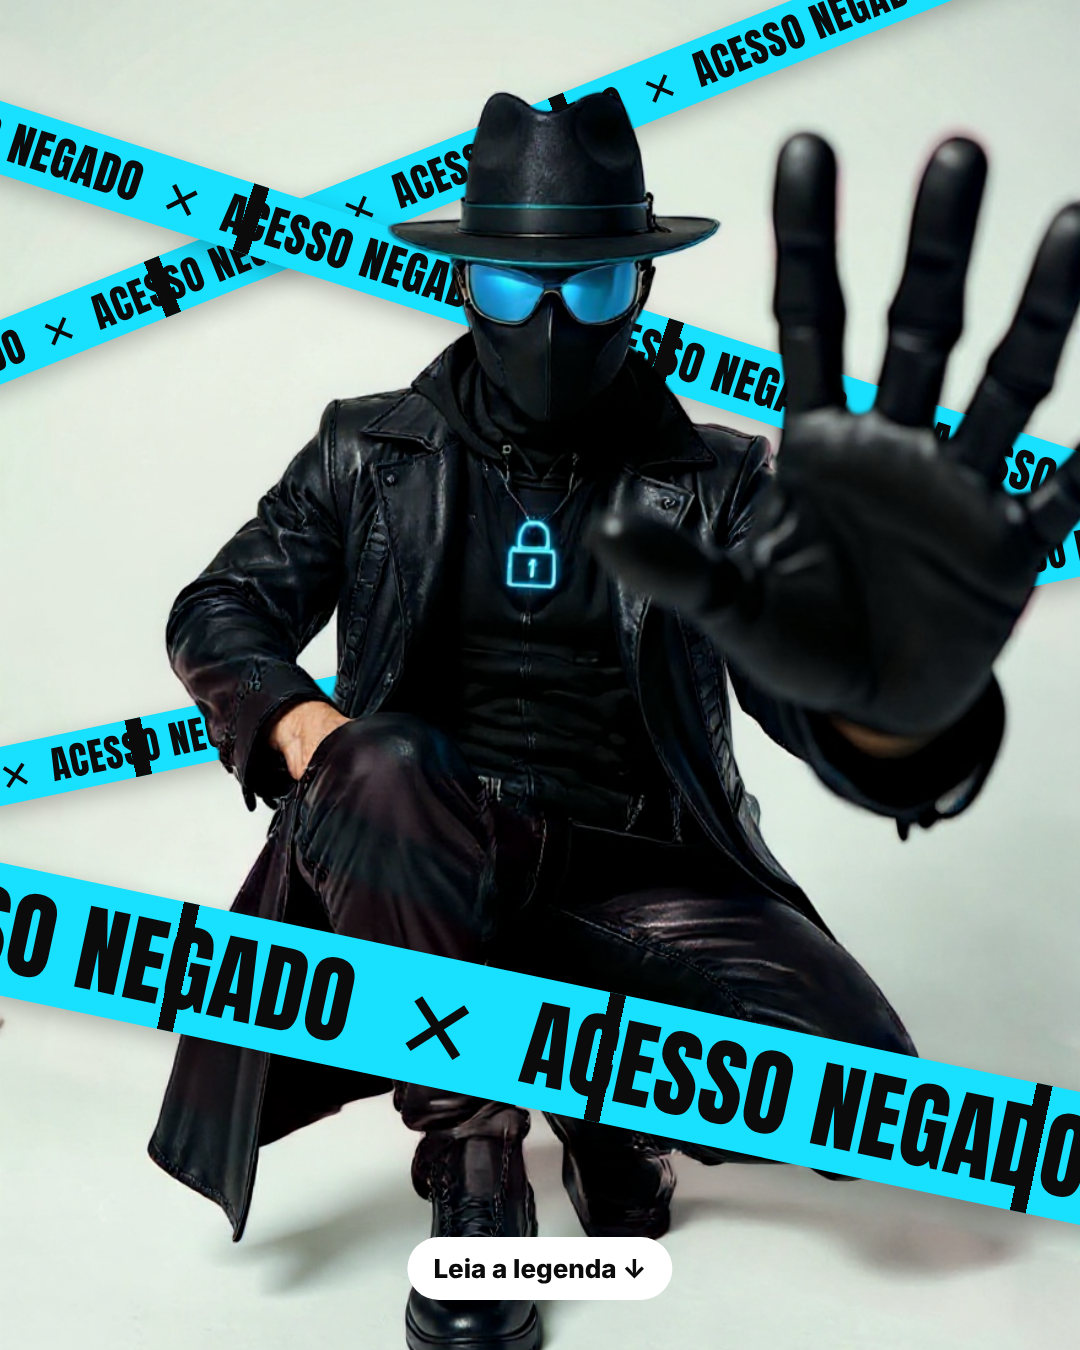
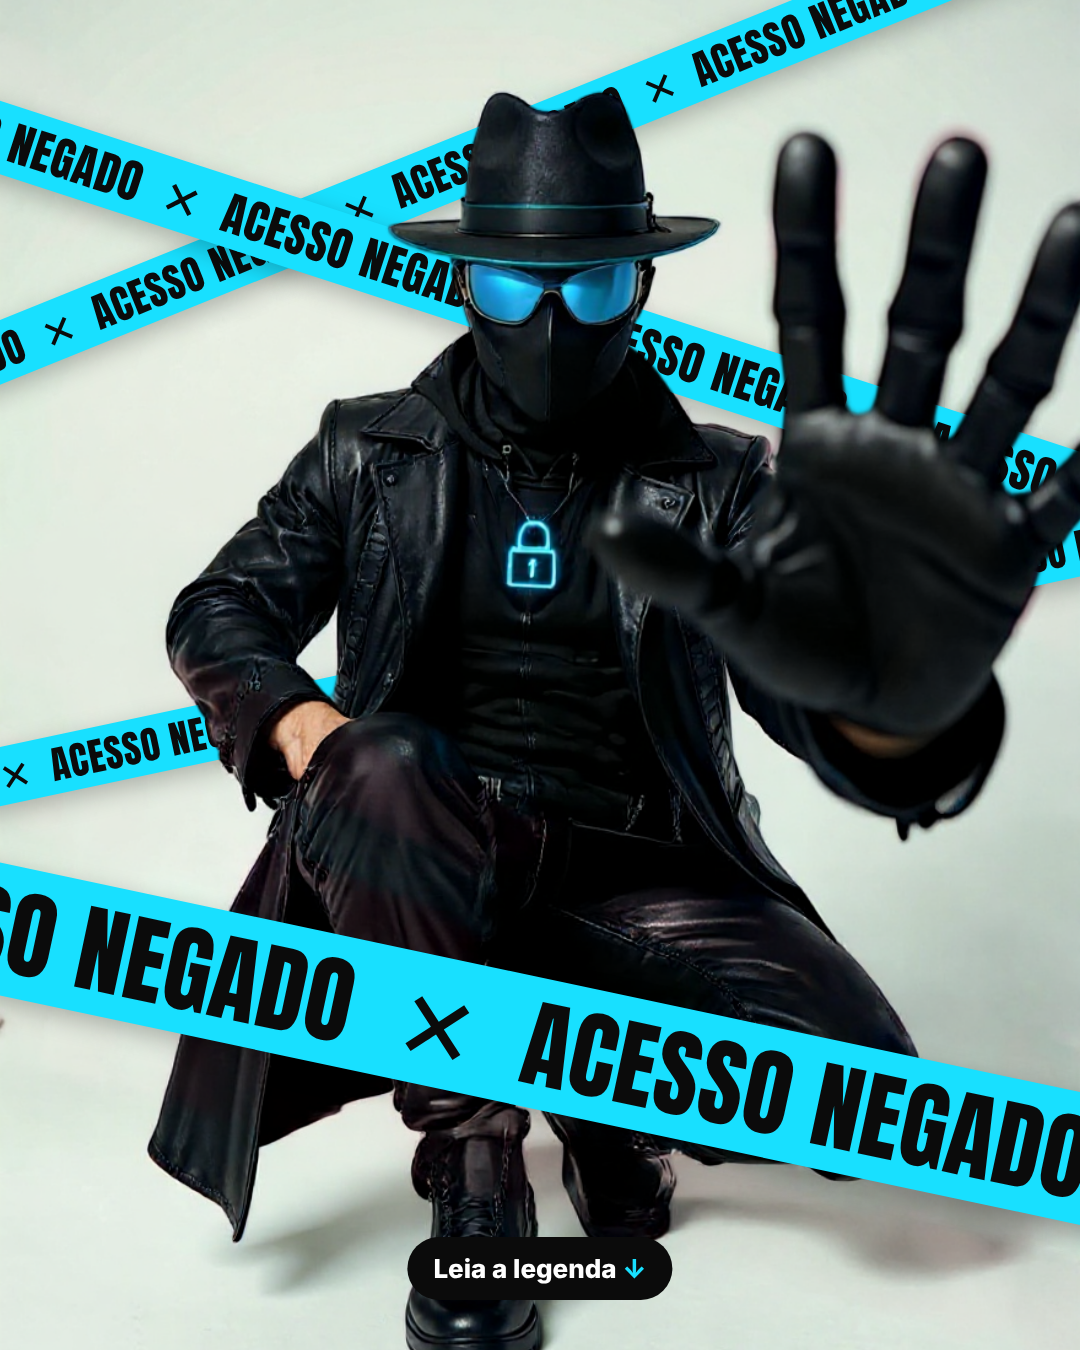
Feed estático: 24 e 25 aprovados, M da 28 afastado
Claude-Session: https://claude.ai/code/session_017mkQW4f9RfZB1iSbiGkvms

diff --git a/banco/tpl-estatico/layout-24.html b/banco/tpl-estatico/layout-24.html
@@ -3,9 +3,8 @@
 @font-face{font-family:I8;src:url(file:///home/user/producaodeconteudo/public/fonts/inter-latin-800-normal.woff2)}
 body{margin:0}#s{width:1080px;height:1350px;position:relative;overflow:hidden;background:#e9eae8}
 .bg{position:absolute;inset:0;width:100%;height:100%;object-fit:cover}
-.tp{position:absolute;width:1800px;background:#18e0ff;display:flex;align-items:center;overflow:hidden;white-space:nowrap;box-shadow:0 8px 24px rgba(0,0,0,.25);
- background-image:repeating-linear-gradient(90deg,transparent 0 420px,#0b0b0b 420px 436px)}
+.tp{position:absolute;width:1800px;background:#18e0ff;display:flex;align-items:center;overflow:hidden;white-space:nowrap;box-shadow:0 8px 24px rgba(0,0,0,.25)}
 .tp span{font-family:A;color:#0b0b0b;letter-spacing:1px;padding-left:30px}
-.cta{position:absolute;left:50%;transform:translateX(-50%);bottom:50px;font:800 26px I8;padding:16px 26px;border-radius:40px;white-space:nowrap;z-index:9;background:#fff;color:#0b0b0b}
-</style></head><body><div id=s><img class=bg src="c24d.png" style="z-index:0"><div class=tp style="top:80px;left:-300px;transform:rotate(-22deg);height:60px;z-index:1"><i></i><span style="font-size:40px">ACESSO NEGADO&nbsp;&nbsp;✕&nbsp;&nbsp;ACESSO NEGADO&nbsp;&nbsp;✕&nbsp;&nbsp;ACESSO NEGADO&nbsp;&nbsp;✕&nbsp;&nbsp;ACESSO NEGADO&nbsp;&nbsp;✕&nbsp;&nbsp;ACESSO NEGADO&nbsp;&nbsp;✕&nbsp;&nbsp;ACESSO NEGADO&nbsp;&nbsp;✕&nbsp;&nbsp;ACESSO NEGADO&nbsp;&nbsp;✕&nbsp;&nbsp;ACESSO NEGADO&nbsp;&nbsp;✕&nbsp;&nbsp;</span></div><div class=tp style="top:330px;left:-200px;transform:rotate(18deg);height:70px;z-index:1"><i></i><span style="font-size:46px">ACESSO NEGADO&nbsp;&nbsp;✕&nbsp;&nbsp;ACESSO NEGADO&nbsp;&nbsp;✕&nbsp;&nbsp;ACESSO NEGADO&nbsp;&nbsp;✕&nbsp;&nbsp;ACESSO NEGADO&nbsp;&nbsp;✕&nbsp;&nbsp;ACESSO NEGADO&nbsp;&nbsp;✕&nbsp;&nbsp;ACESSO NEGADO&nbsp;&nbsp;✕&nbsp;&nbsp;ACESSO NEGADO&nbsp;&nbsp;✕&nbsp;&nbsp;ACESSO NEGADO&nbsp;&nbsp;✕&nbsp;&nbsp;</span></div><div class=tp style="top:620px;left:-300px;transform:rotate(-12deg);height:58px;z-index:1"><i></i><span style="font-size:38px">ACESSO NEGADO&nbsp;&nbsp;✕&nbsp;&nbsp;ACESSO NEGADO&nbsp;&nbsp;✕&nbsp;&nbsp;ACESSO NEGADO&nbsp;&nbsp;✕&nbsp;&nbsp;ACESSO NEGADO&nbsp;&nbsp;✕&nbsp;&nbsp;ACESSO NEGADO&nbsp;&nbsp;✕&nbsp;&nbsp;ACESSO NEGADO&nbsp;&nbsp;✕&nbsp;&nbsp;ACESSO NEGADO&nbsp;&nbsp;✕&nbsp;&nbsp;ACESSO NEGADO&nbsp;&nbsp;✕&nbsp;&nbsp;</span></div><img class=bg src="c24d-cut.png" style="z-index:3"><div class=tp style="top:1000px;left:-260px;transform:rotate(12deg);height:130px;z-index:5"><i></i><span style="font-size:96px">ACESSO NEGADO&nbsp;&nbsp;✕&nbsp;&nbsp;ACESSO NEGADO&nbsp;&nbsp;✕&nbsp;&nbsp;ACESSO NEGADO&nbsp;&nbsp;✕&nbsp;&nbsp;ACESSO NEGADO&nbsp;&nbsp;✕&nbsp;&nbsp;ACESSO NEGADO&nbsp;&nbsp;✕&nbsp;&nbsp;ACESSO NEGADO&nbsp;&nbsp;✕&nbsp;&nbsp;ACESSO NEGADO&nbsp;&nbsp;✕&nbsp;&nbsp;ACESSO NEGADO&nbsp;&nbsp;✕&nbsp;&nbsp;</span></div>
-<div class=cta>Leia a legenda ↓</div></div></body></html>
+.cta{position:absolute;left:50%;transform:translateX(-50%);bottom:50px;font:800 26px I8;padding:16px 26px;border-radius:40px;white-space:nowrap;z-index:9;background:#0b0b0b;color:#fff}
+</style></head><body><div id=s><img class=bg src="c24d.png" style="z-index:0"><div class=tp style="top:80px;left:-300px;transform:rotate(-22deg);height:60px;z-index:1"><span style="font-size:40px">ACESSO NEGADO&nbsp;&nbsp;✕&nbsp;&nbsp;ACESSO NEGADO&nbsp;&nbsp;✕&nbsp;&nbsp;ACESSO NEGADO&nbsp;&nbsp;✕&nbsp;&nbsp;ACESSO NEGADO&nbsp;&nbsp;✕&nbsp;&nbsp;ACESSO NEGADO&nbsp;&nbsp;✕&nbsp;&nbsp;ACESSO NEGADO&nbsp;&nbsp;✕&nbsp;&nbsp;ACESSO NEGADO&nbsp;&nbsp;✕&nbsp;&nbsp;ACESSO NEGADO&nbsp;&nbsp;✕&nbsp;&nbsp;</span></div><div class=tp style="top:330px;left:-200px;transform:rotate(18deg);height:70px;z-index:1"><span style="font-size:46px">ACESSO NEGADO&nbsp;&nbsp;✕&nbsp;&nbsp;ACESSO NEGADO&nbsp;&nbsp;✕&nbsp;&nbsp;ACESSO NEGADO&nbsp;&nbsp;✕&nbsp;&nbsp;ACESSO NEGADO&nbsp;&nbsp;✕&nbsp;&nbsp;ACESSO NEGADO&nbsp;&nbsp;✕&nbsp;&nbsp;ACESSO NEGADO&nbsp;&nbsp;✕&nbsp;&nbsp;ACESSO NEGADO&nbsp;&nbsp;✕&nbsp;&nbsp;ACESSO NEGADO&nbsp;&nbsp;✕&nbsp;&nbsp;</span></div><div class=tp style="top:620px;left:-300px;transform:rotate(-12deg);height:58px;z-index:1"><span style="font-size:38px">ACESSO NEGADO&nbsp;&nbsp;✕&nbsp;&nbsp;ACESSO NEGADO&nbsp;&nbsp;✕&nbsp;&nbsp;ACESSO NEGADO&nbsp;&nbsp;✕&nbsp;&nbsp;ACESSO NEGADO&nbsp;&nbsp;✕&nbsp;&nbsp;ACESSO NEGADO&nbsp;&nbsp;✕&nbsp;&nbsp;ACESSO NEGADO&nbsp;&nbsp;✕&nbsp;&nbsp;ACESSO NEGADO&nbsp;&nbsp;✕&nbsp;&nbsp;ACESSO NEGADO&nbsp;&nbsp;✕&nbsp;&nbsp;</span></div><img class=bg src="c24d-cut.png" style="z-index:3"><div class=tp style="top:1000px;left:-260px;transform:rotate(12deg);height:130px;z-index:5"><span style="font-size:96px">ACESSO NEGADO&nbsp;&nbsp;✕&nbsp;&nbsp;ACESSO NEGADO&nbsp;&nbsp;✕&nbsp;&nbsp;ACESSO NEGADO&nbsp;&nbsp;✕&nbsp;&nbsp;ACESSO NEGADO&nbsp;&nbsp;✕&nbsp;&nbsp;ACESSO NEGADO&nbsp;&nbsp;✕&nbsp;&nbsp;ACESSO NEGADO&nbsp;&nbsp;✕&nbsp;&nbsp;ACESSO NEGADO&nbsp;&nbsp;✕&nbsp;&nbsp;ACESSO NEGADO&nbsp;&nbsp;✕&nbsp;&nbsp;</span></div>
+<div class=cta>Leia a legenda <span style="color:#18e0ff">↓</span></div></div></body></html>

diff --git a/banco/tpl-estatico/layout-28.html b/banco/tpl-estatico/layout-28.html
@@ -16,5 +16,5 @@ body{margin:0}#s{width:1080px;height:1350px;position:relative;overflow:hidden;ba
 .box{position:absolute;right:70px;top:880px;padding:16px 26px;border:1px solid rgba(255,255,255,.5);background:rgba(255,255,255,.12);backdrop-filter:blur(6px);color:#fff;font:300 40px/1.1 IL;z-index:3}
 .box b{font-weight:800;font-family:I8;color:#9dff3c}.box i{font:700 50px S;color:#9dff3c;font-style:normal}
 .cta{background:#9dff3c;color:#0b2a10}
-.tt{position:absolute;left:0;right:0;top:120px;display:flex;justify-content:center;align-items:baseline;z-index:3}.mm{font:700 italic 363px/1 PF;color:#9dff3c;margin-right:-30px}.ee{font:400 300px/1 A;color:#f2f2f2;letter-spacing:-2px}</style></head><body><div id=s><img src="c28.png" style="position:absolute;left:0;top:230px;width:1080px;-webkit-mask-image:linear-gradient(transparent,#000 160px)"><img src="c28-cut.png" style="position:absolute;left:0;top:230px;width:1080px"><div class=tt><span class=mm>M</span><span class=ee>EDOS</span></div>
+.tt{position:absolute;left:0;right:0;top:120px;display:flex;justify-content:center;align-items:baseline;z-index:3}.mm{font:700 italic 363px/1 PF;color:#9dff3c;margin-right:30px}.ee{font:400 300px/1 A;color:#f2f2f2;letter-spacing:-2px}</style></head><body><div id=s><img src="c28.png" style="position:absolute;left:0;top:230px;width:1080px;-webkit-mask-image:linear-gradient(transparent,#000 160px)"><img src="c28-cut.png" style="position:absolute;left:0;top:230px;width:1080px"><div class=tt><span class=mm>M</span><span class=ee>EDOS</span></div>
 <div class=box>QUE <b>TODO<br>APOSTADOR</b> TEM</div><div class=cta>Leia a legenda ↓</div></div></body></html>

diff --git a/conhecimento/agentes/designer/22-feed-estatico-quebra-de-padrao.md b/conhecimento/agentes/designer/22-feed-estatico-quebra-de-padrao.md
@@ -106,3 +106,4 @@ Arquivos em `banco/tpl-estatico/` (`ref-N`, `layout-N.html`, `teste-N.png`).
 - 2ª rodada: 24 com 4 fitas só (como a referência); 25 mascote sentado firme e centralizado na lâmpada, frase manuscrita perto da cabeça como fala; 27 aprovada; 28 M encostado no EDOS (não por cima). Máscara saindo do rosto: a IA não consegue fazer (6 tentativas), pendente de decisão do dono.
 - 3ª rodada: 24 listras pretas das faixas BEM finas; 25 luz da lâmpada mais forte (brilho verde) e fala perto do rosto; 28 M maior que o resto da palavra e encostado; caixa com UMA fonte só, destaque só em "TODO APOSTADOR" na cor da marca.
 - 4ª rodada: 24 listras pretas com a MESMA largura em todas as faixas (16px), botão branco com texto preto; 25 arte puxada para a direita para o texto não encostar na lâmpada, fala ao lado do rosto; 28 letra manuscrita do MESMO tamanho (altura das maiúsculas) do resto da palavra, mesma linha de base; destaque em negrito.
+- 5ª rodada: 24 APROVADA SEM as listras pretas (faixa lisa com "ACESSO NEGADO ✕"), botão preto com texto branco e seta na cor da marca; 25 APROVADA; 28 M com respiro antes do E (não colado). Máscara da 28 ainda pendente de decisão.
